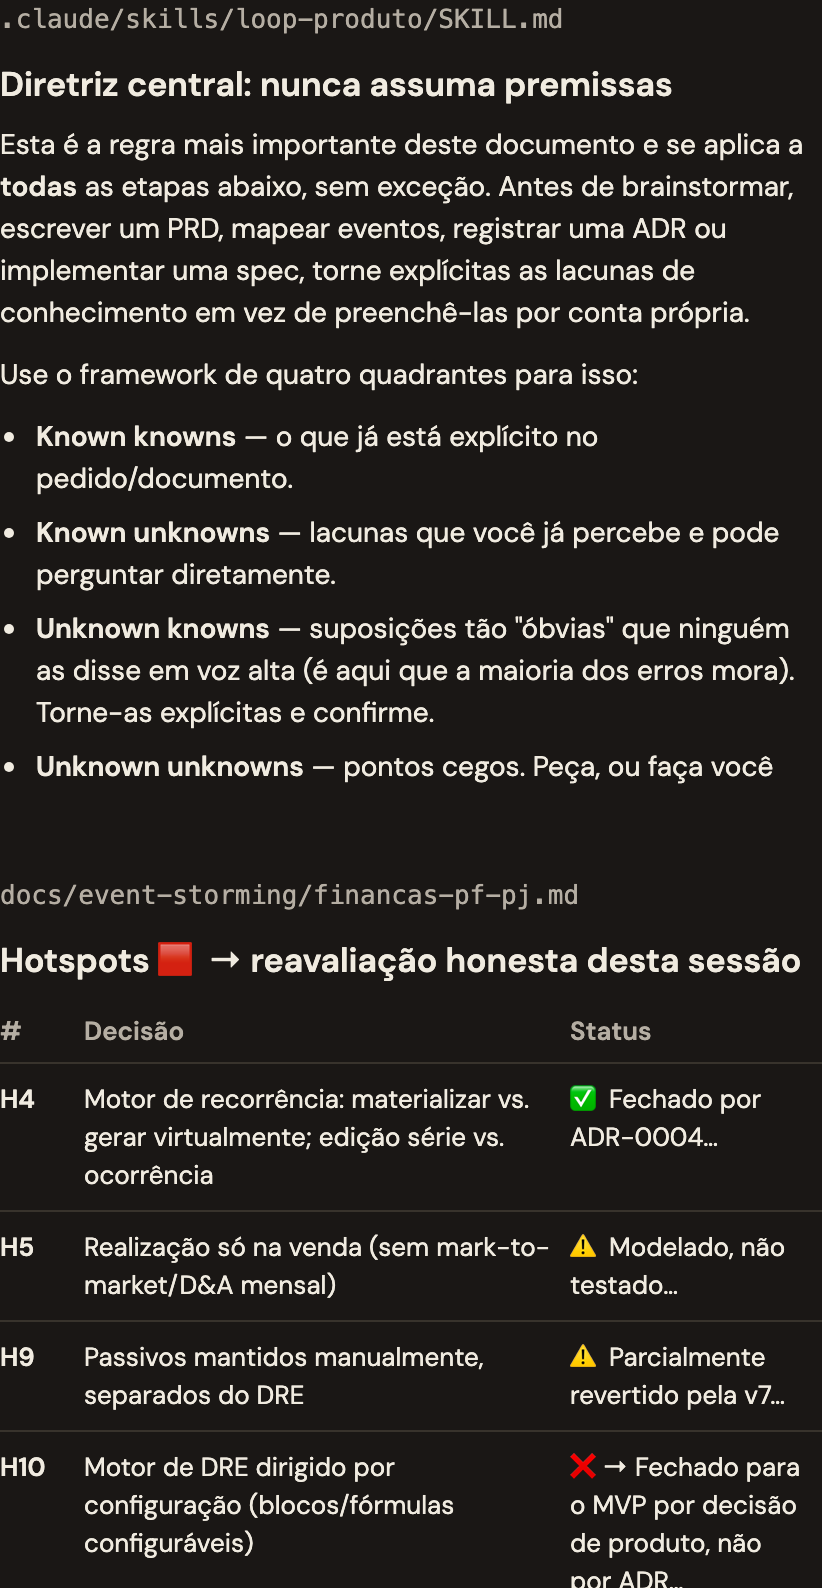
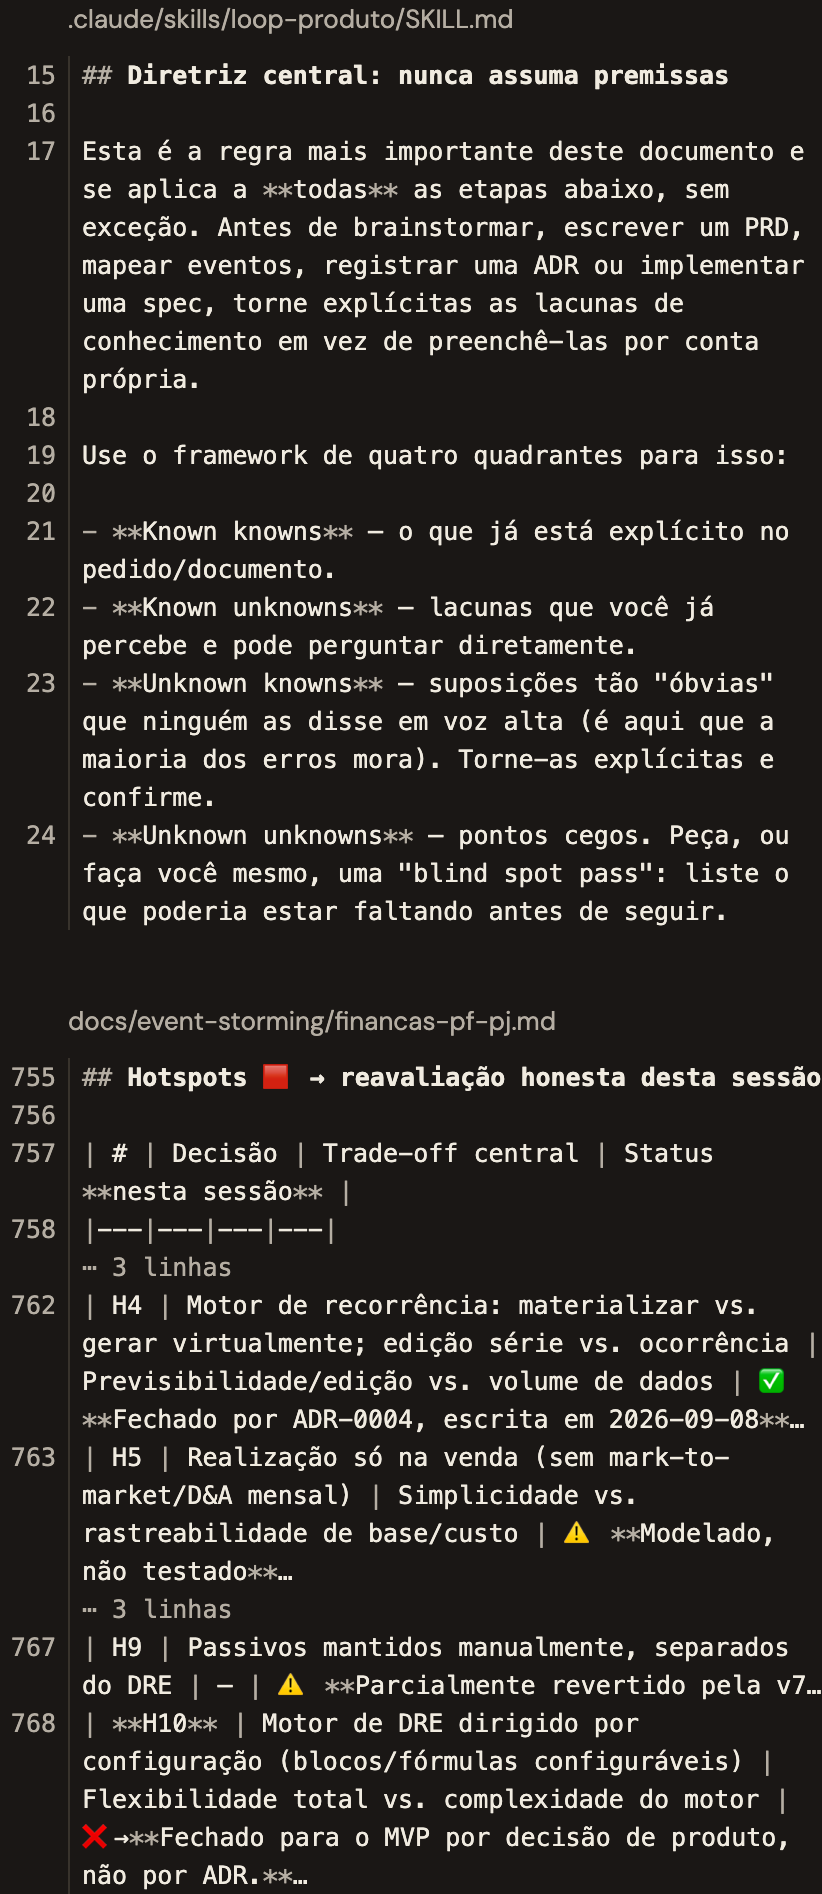
A colagem do capítulo 2 do Finanças na versão de arquivo (decisão 193)
Os trechos aparecem como num editor, com números de linha e o markdown à vista;
o texto alternativo foi reescrito, a legenda não muda. telas.json e trilha.json
relidos: 6668 e 10222. As checagens seguem só com as 7 falhas conhecidas da 13.

Changed region(s): [[0.0, 0.0, 0.9732, 0.4937], [0.0, 0.5246, 1.0, 1.0], [0.0, 0.8331, 0.0304, 0.864]]

diff --git a/docs/log-de-decisoes.md b/docs/log-de-decisoes.md
@@ -6470,3 +6470,31 @@ prova o conteúdo, não a aparência deles.
 **Consequência.** No Figma, as quatro telas; o capítulo 2 cresceu 224 px no desktop e 435 na
 estreita, e tudo abaixo desceu com o respiro de 96 e 64. `legendas.json` e `midias.json`
 atualizados; a checagem 13 passa para as duas versões. Legenda e texto alternativo são rascunho meu.
+
+---
+
+## 193 · A colagem do capítulo 2 mostra os arquivos como arquivo
+
+**Quando** 2026-10-01 · **Fase** 4 · **Domínio** case · `#reversao`
+
+**Gatilho.** Publicada a colagem da 192, ela achou que faltava *"um diferenciador visual pra quebrar
+essa sensação de muito texto"* e sugeriu uma borda. Os trechos estavam na mesma fonte, tamanho e
+cor do texto do capítulo ao lado, e liam como mais texto da página.
+
+**Decisão.** *"arquivo"*. Os trechos passam a aparecer como num editor: fonte monoespaçada, a
+marcação do markdown visível em cinza (`##`, `**`, `-`, `|`), números de linha reais à esquerda
+(15 a 24 da skill, 755 a 768 do event storming), e as linhas puladas da tabela marcadas como uma
+dobra, *"⋯ 3 linhas"*. A tabela agora mostra as quatro colunas do arquivo. **Reverte, da 192, a
+recomposição na tipografia do site**; o conteúdo, os cortes e os travessões continuam.
+
+`financas-2-descoberta-claro` e `-escuro`: 411×947, arquivo em 822×1894.
+
+**Alternativa descartada.** *A borda que ela sugeriu*, e *um fundo `bg/subtle` atrás dos trechos*:
+os dois são moldura ou superfície própria, exceção à 157, e a borda faria a checagem 13 reclamar.
+*Manter a versão da 192*: o problema que ela viu continuava.
+
+**Custo aceito.** A mídia ficou 153 px mais alta no desktop e 122 na estreita. A linha fina que
+separa os números do texto é o único traço da peça.
+
+**Consequência.** Figma, as quatro telas reajustadas com o respiro de 96 e 64; desktop com 6668 e
+estreita com 10222. Texto alternativo reescrito para a versão nova; a legenda não mudou.

diff --git a/case-study-financas-pf-pj.md b/case-study-financas-pf-pj.md
@@ -45,7 +45,7 @@ Com o método de pé, dirigi a construção do documento de produto a partir de 
 
 Com as regras estáveis, pedi a tradução do documento para um modelo formal de domínio: eventos, comandos, políticas e agregados. Onde havia tensão sem resposta certa ainda, instruí que ficasse marcada como hotspot em vez de decidida no automático.
 
-![Dois trechos de arquivos do projeto, um acima do outro, com as bordas cortando o resto. Em cima, a skill loop-produto: a seção Diretriz central: nunca assuma premissas, que manda tornar explícitas as lacunas de conhecimento em vez de preenchê-las por conta própria, e os quatro quadrantes, de known knowns a unknown unknowns. Embaixo, a tabela de hotspots do event storming, com o número de cada um, a decisão em aberto e o status: H4 fechado por ADR, H5 modelado e não testado, H9 parcialmente revertido e H10 fechado para o MVP por decisão de produto.](publico/midias/financas-2-descoberta.png)
+![Dois trechos de arquivos do projeto como aparecem num editor de texto, com os números de linha à esquerda e a marcação do markdown visível. Em cima, as linhas 15 a 24 da skill loop-produto: a seção Diretriz central: nunca assuma premissas, que manda tornar explícitas as lacunas de conhecimento em vez de preenchê-las por conta própria, e os quatro quadrantes, de known knowns a unknown unknowns. Embaixo, linhas da tabela de hotspots do event storming, com o número de cada um, a decisão em aberto, o trade-off e o status: H4 fechado por ADR, H5 modelado e não testado, H9 parcialmente revertido e H10 fechado para o MVP por decisão de produto.](publico/midias/financas-2-descoberta.png)
 Legenda: A regra escrita antes de qualquer tela, e o que ela produziu: cada dúvida do modelo de domínio virou hotspot, com destino registrado.
 
 ---
